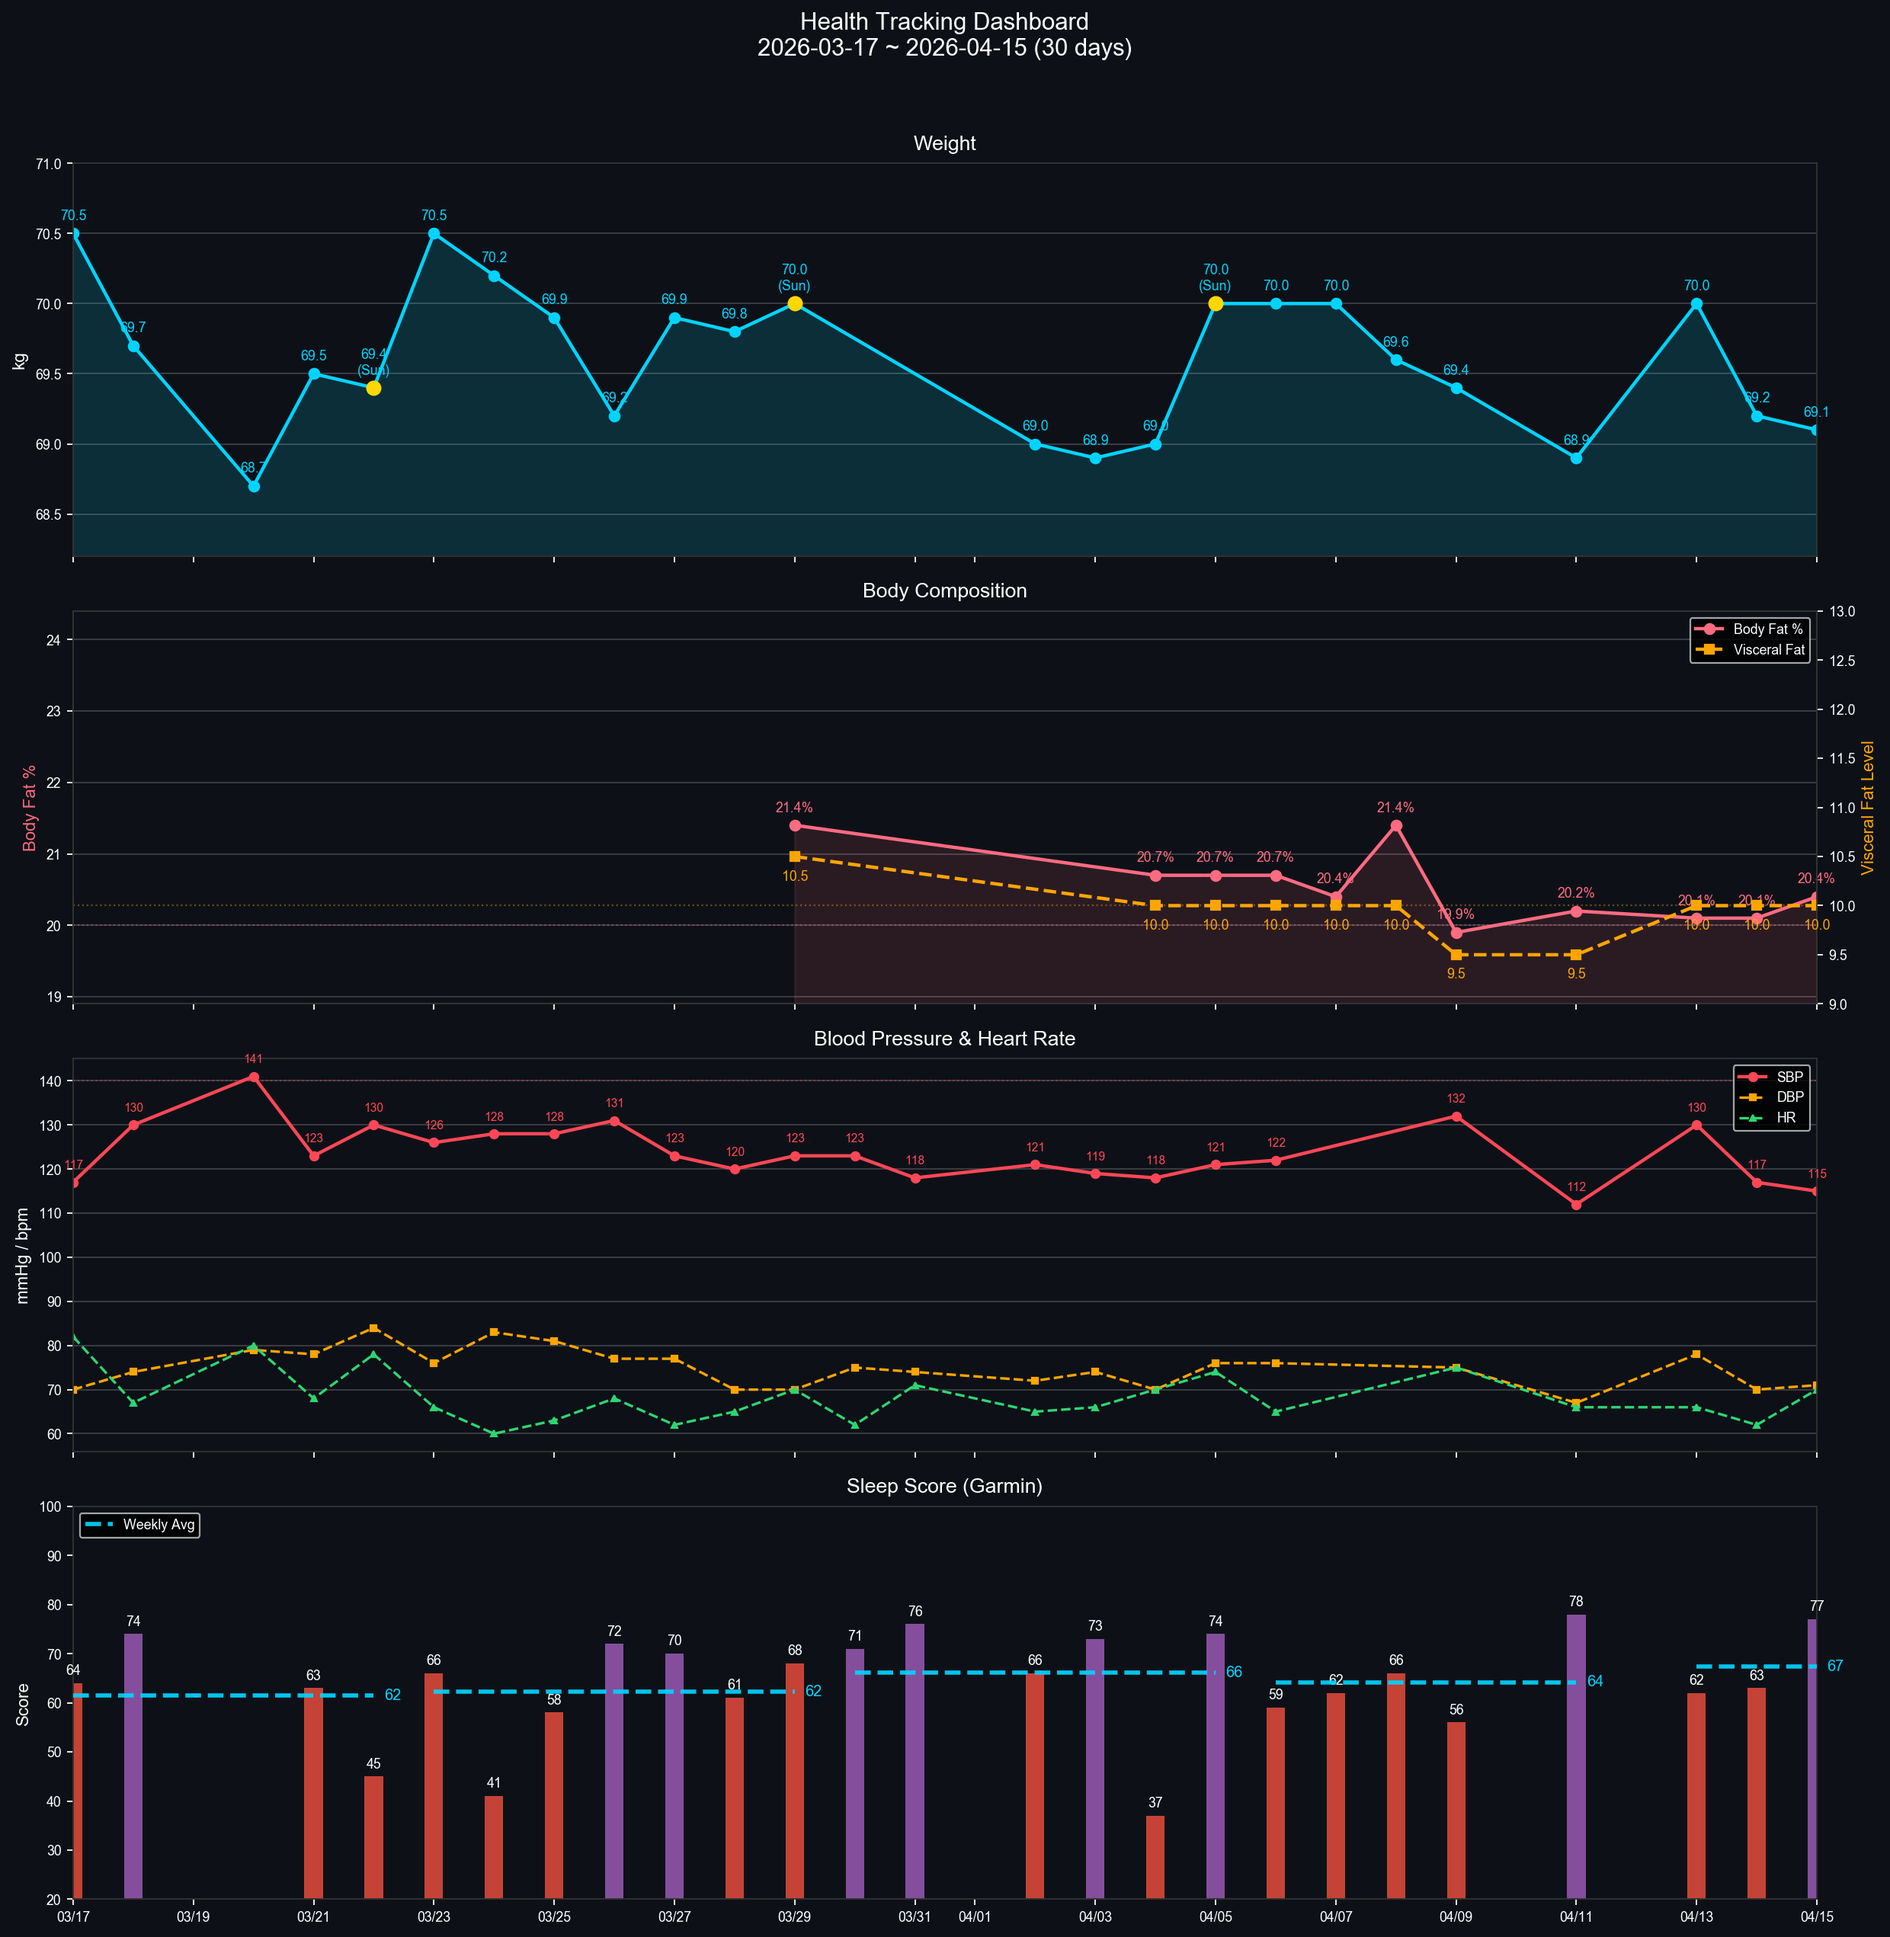
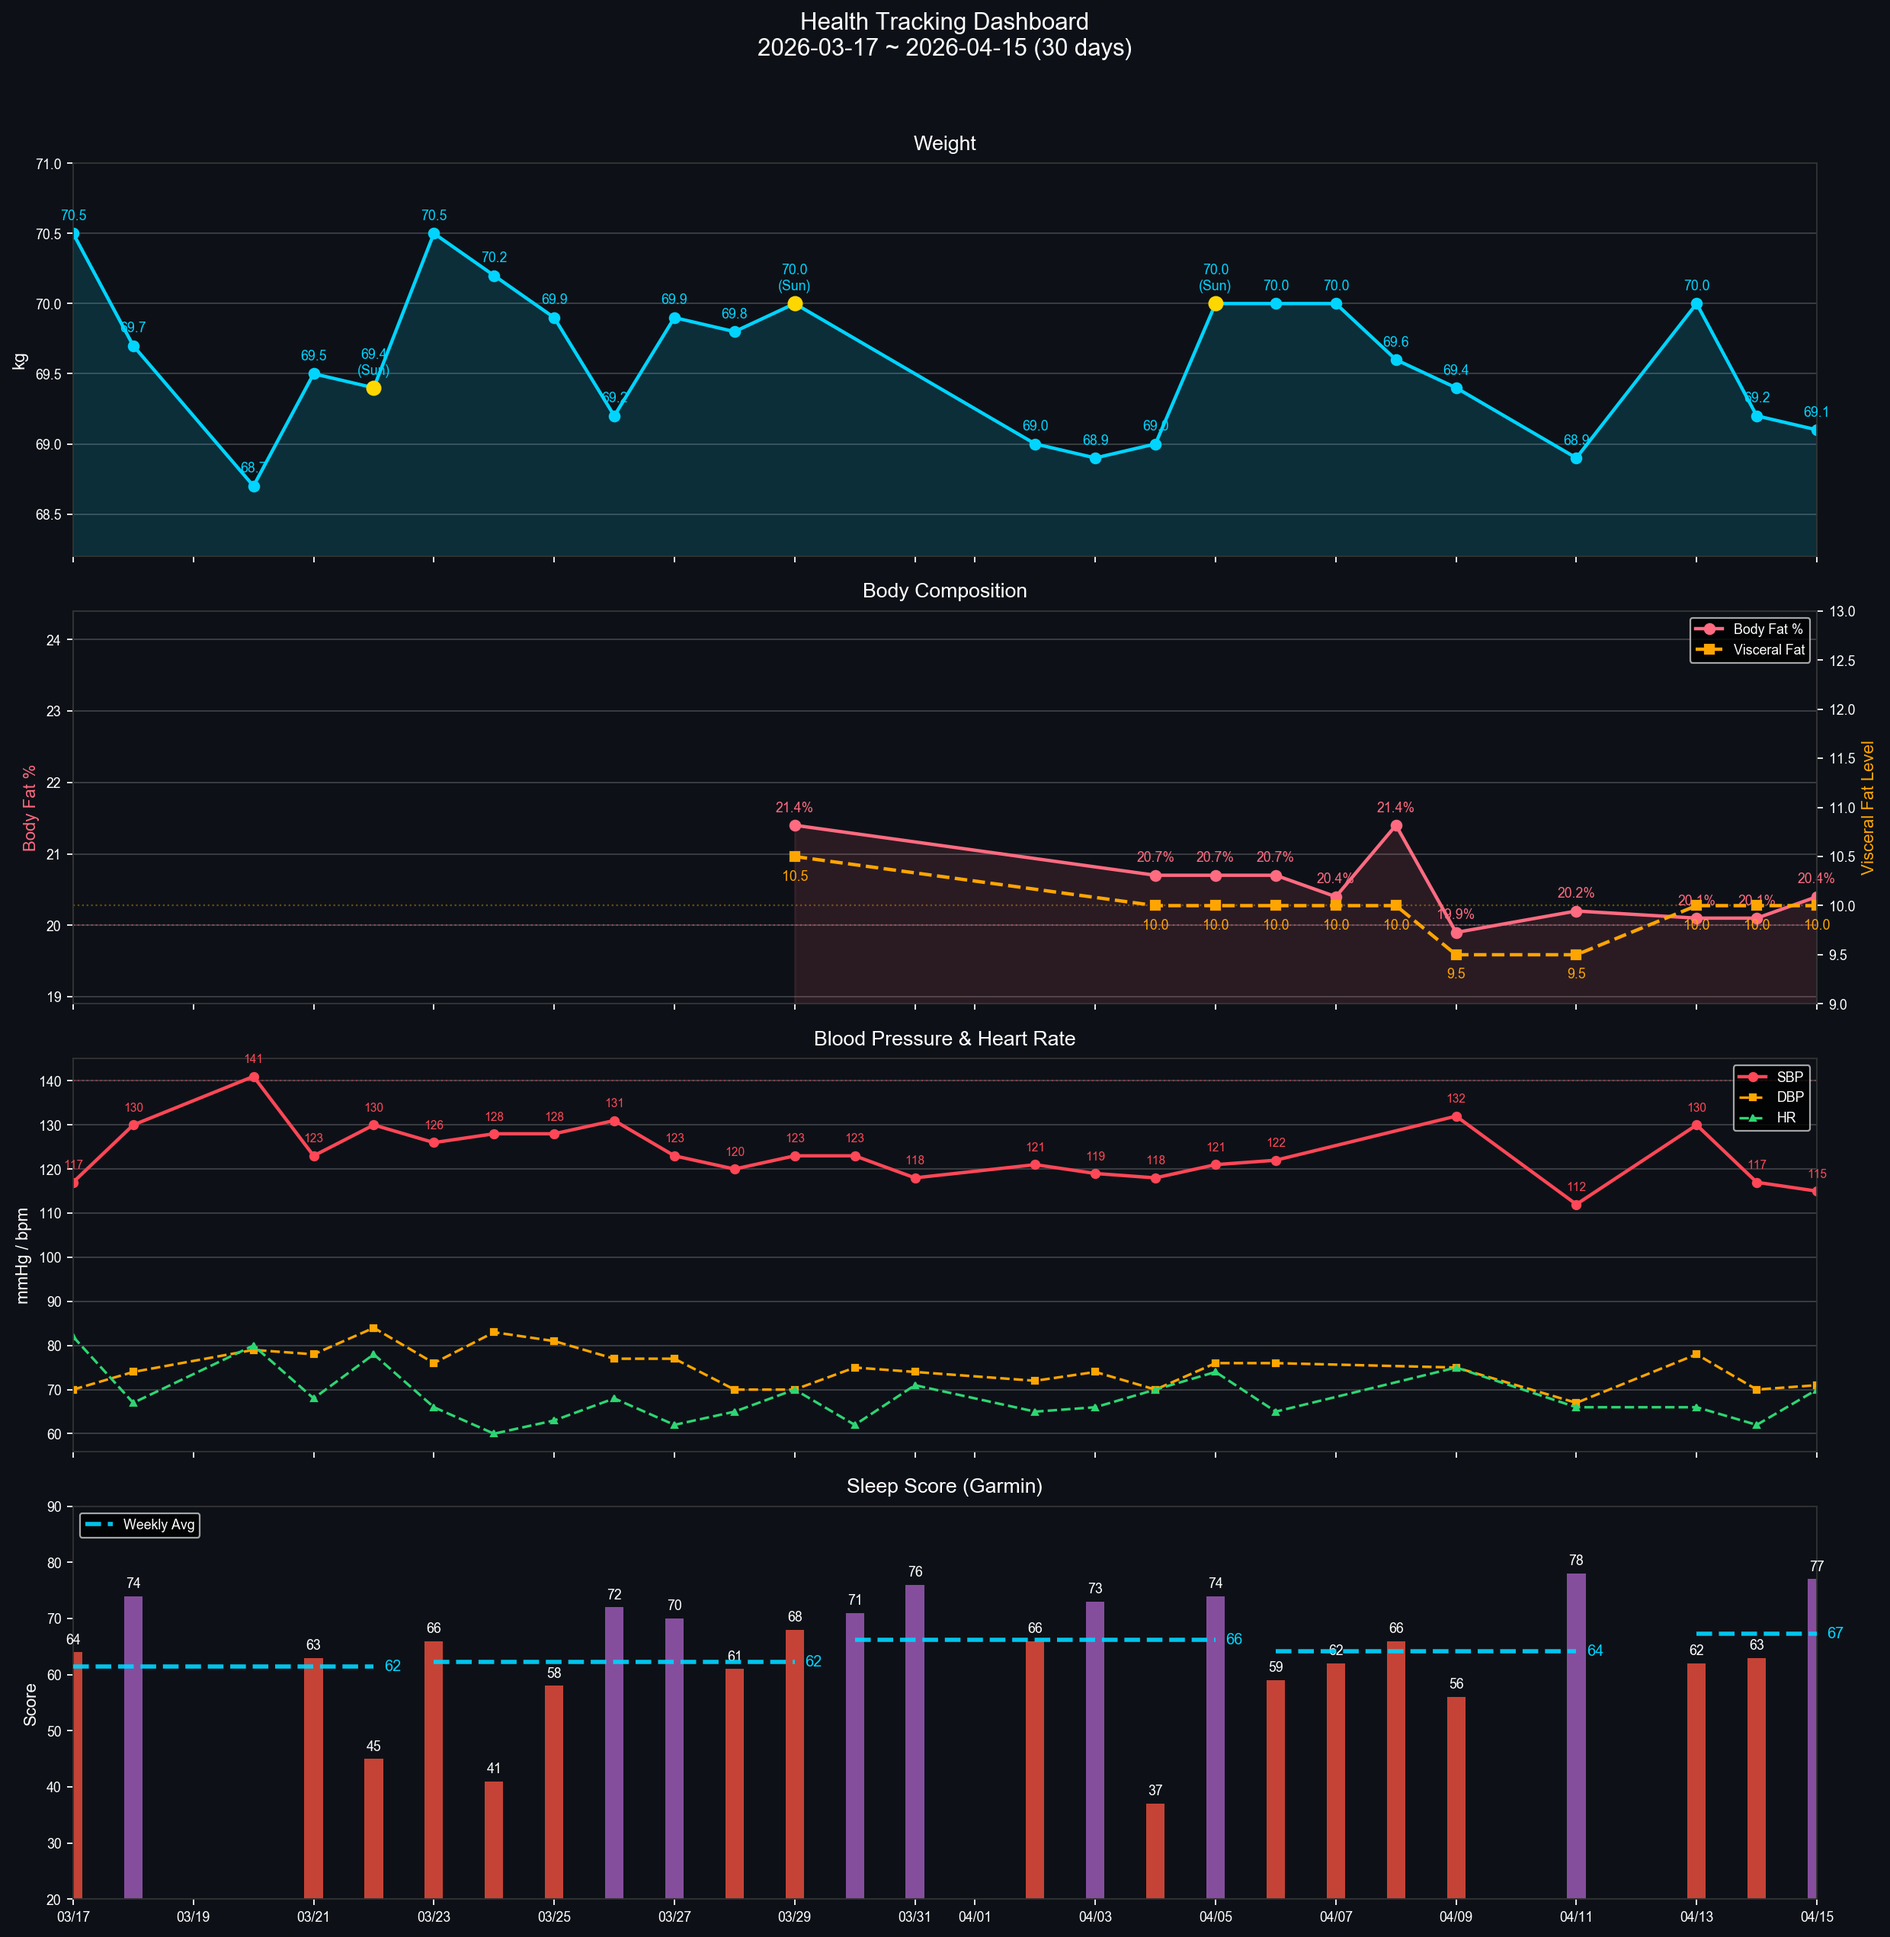
sleep score: y-axis upper limit to 90

diff --git a/scripts/generate_dashboard.py b/scripts/generate_dashboard.py
@@ -263,7 +263,7 @@ def generate_dashboard(data_list, output_path):
     ax.set_ylabel("Score", fontsize=10)
     ax.xaxis.set_major_locator(mdates.AutoDateLocator(minticks=6, maxticks=20))
     ax.xaxis.set_major_formatter(mdates.DateFormatter("%m/%d"))
-    ax.set_ylim(20, 100)
+    ax.set_ylim(20, 90)
 
     for a in axes:
         a.tick_params(colors="white", labelsize=8)
